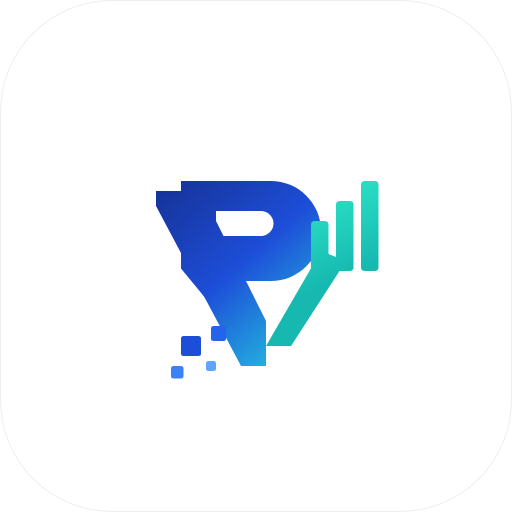
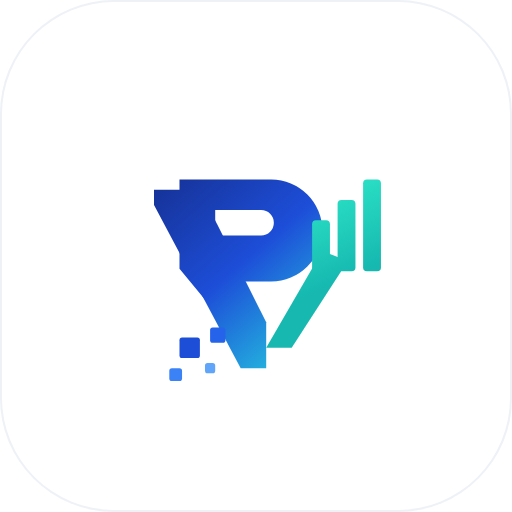
웹앱 로고를 앱아이콘(라운드 타일) 이미지로 교체
- 헤더·사이드바·푸터 로고를 public/brand/app-icon.png(첨부 로고와 동일 디자인) 기반 AppIcon으로 교체
- 앱아이콘에 라운드 타일·미세 테두리·그림자 적용해 라이트 배경에서도 선명하게 표시
- 정확한 원본 PNG로 교체 시 public/brand/app-icon.png만 덮어쓰면 전체 반영

Claude-Session: https://claude.ai/code/session_01EWj9BBoK9Jitd155qmVuzK

diff --git a/components/Brand.tsx b/components/Brand.tsx
@@ -47,6 +47,21 @@ export function LogoMark({ size = 36, className }: { size?: number; className?: 
   )
 }
 
+/** 앱 아이콘(라운드 흰 타일 + 마크) — 첨부된 로고 이미지 사용. public/brand/app-icon.png 교체 시 자동 반영 */
+export function AppIcon({ size = 36, className }: { size?: number; className?: string }) {
+  return (
+    // eslint-disable-next-line @next/next/no-img-element
+    <img
+      src="/brand/app-icon.png"
+      alt="BYGENCY"
+      width={size}
+      height={size}
+      className={cn('rounded-[26%] ring-1 ring-black/5 shadow-sm', className)}
+      style={{ width: size, height: size }}
+    />
+  )
+}
+
 /** 로고 + BYGENCY 워드마크 락업 */
 export function Logo({
   size = 34,
@@ -61,7 +76,7 @@ export function Logo({
 }) {
   const inner = (
     <span className={cn('flex items-center gap-2.5', className)}>
-      <LogoMark size={size} />
+      <AppIcon size={size} />
       <span
         className={cn(
           'font-black tracking-[0.14em] text-[#0a1730]',